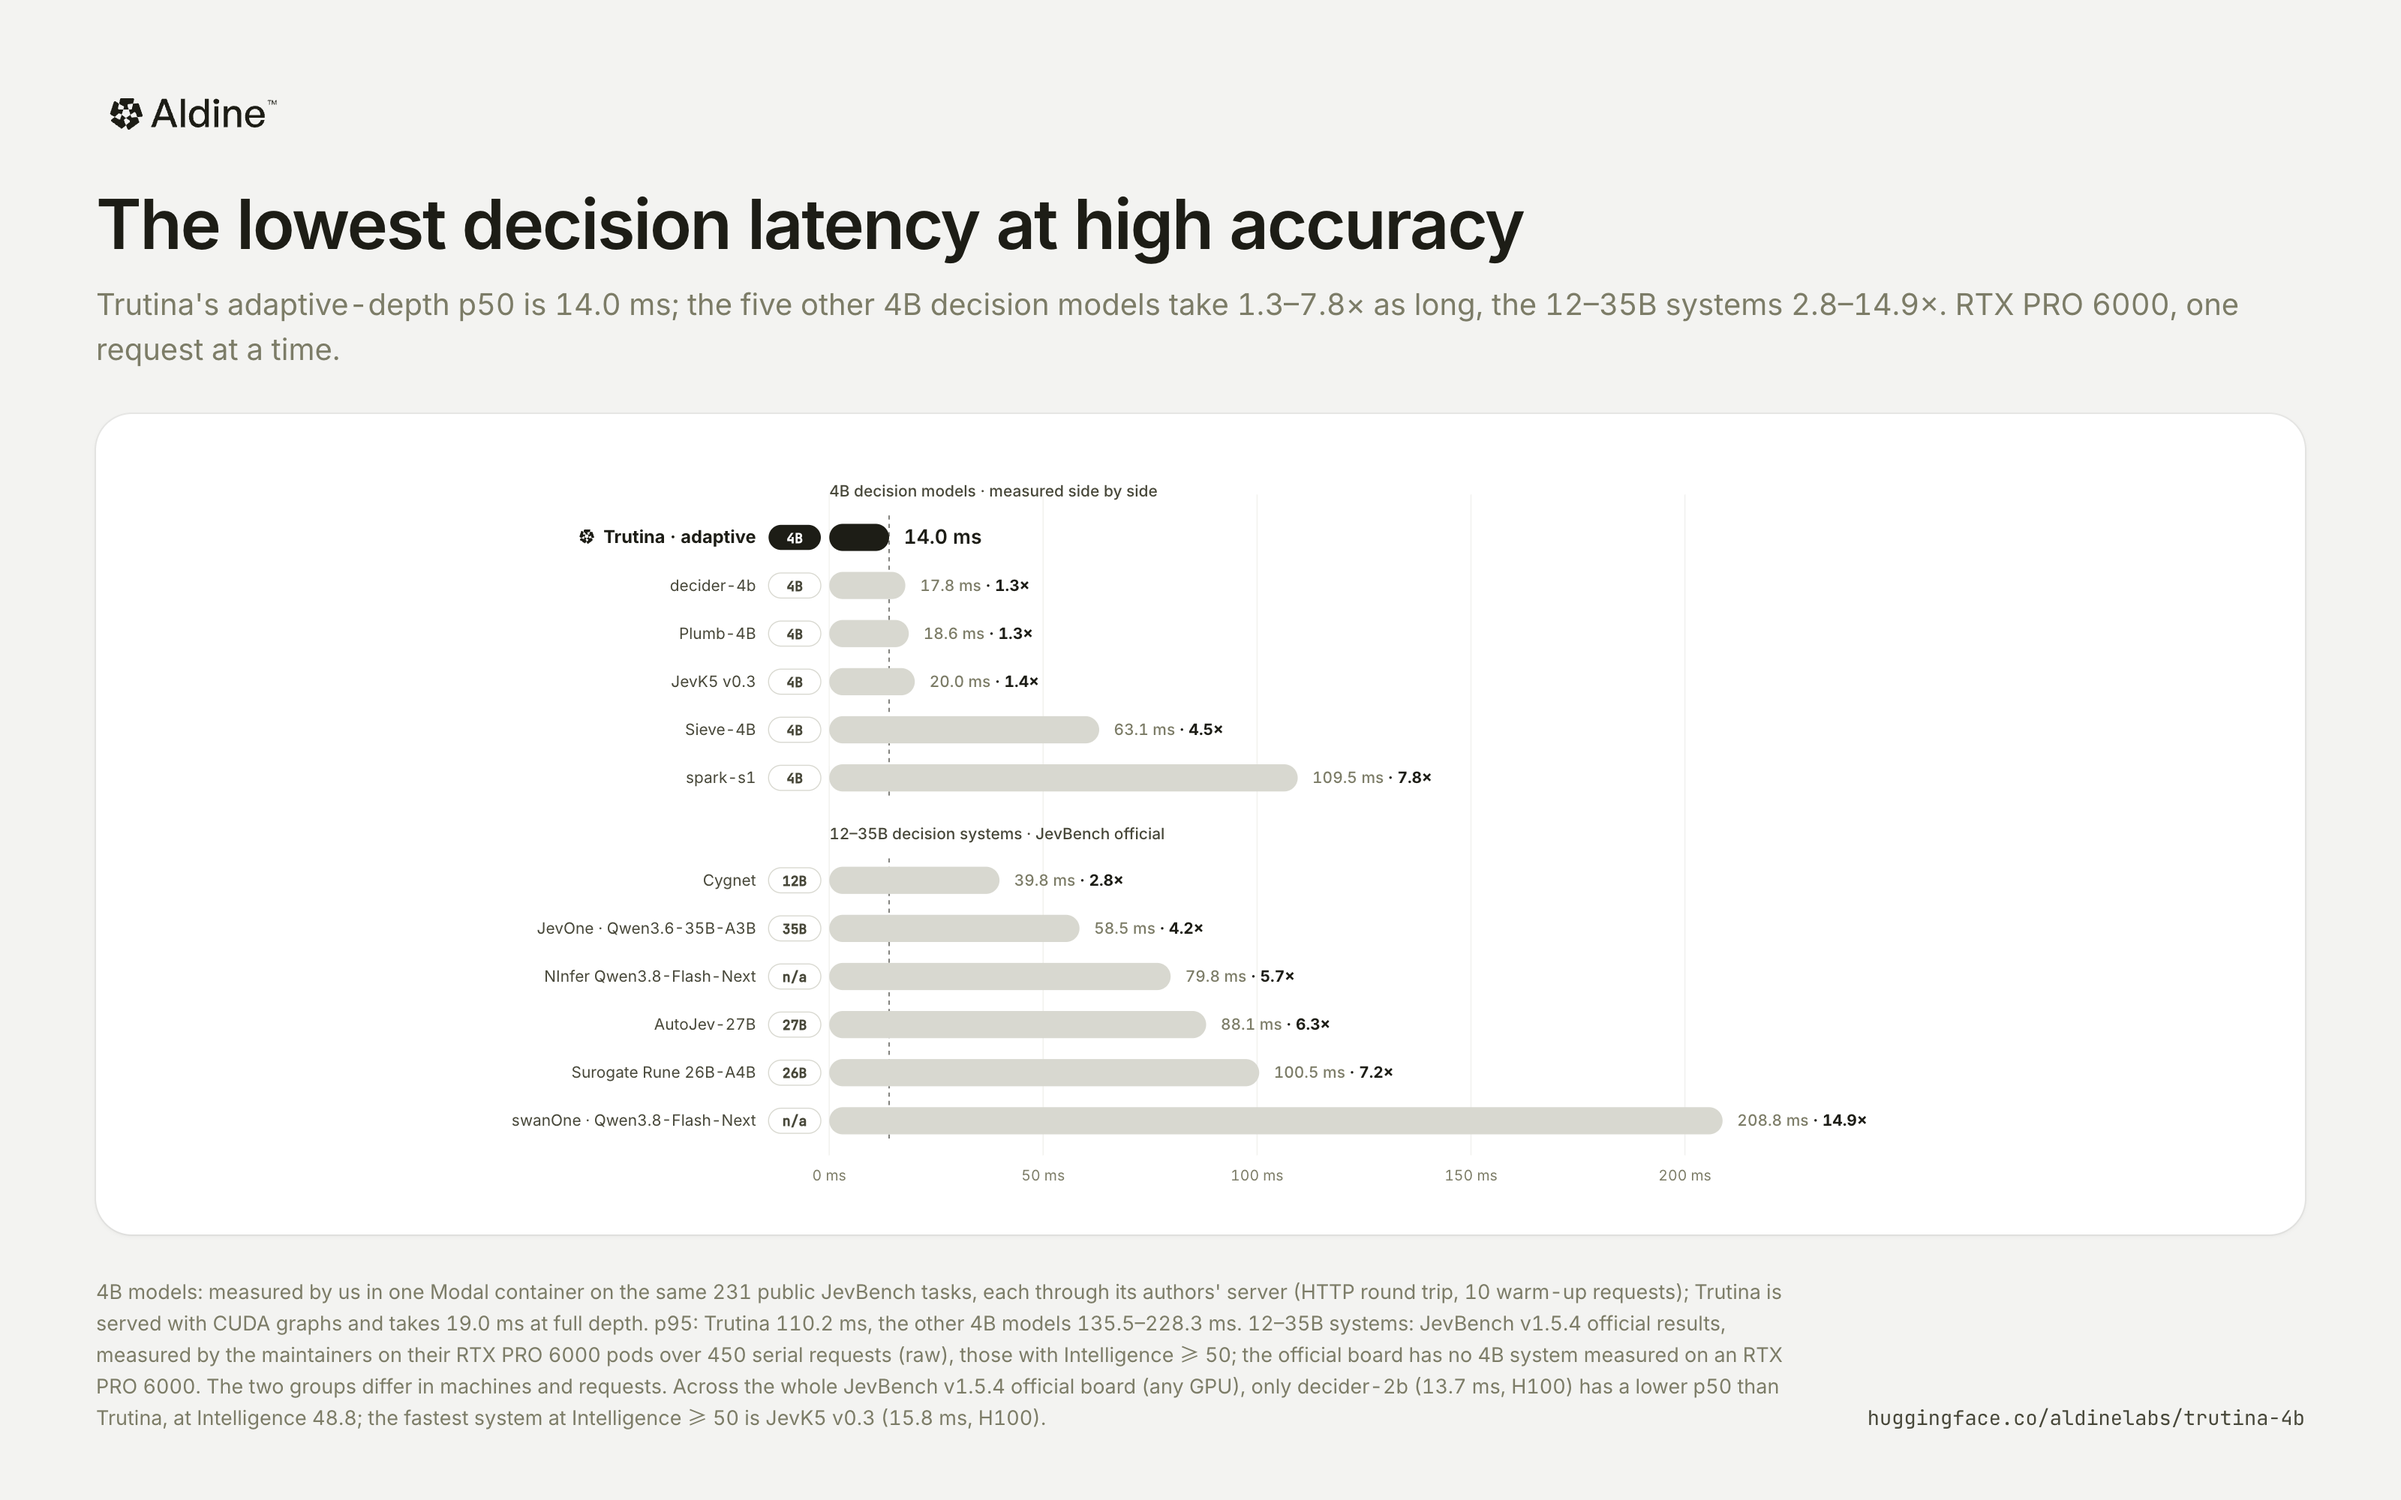
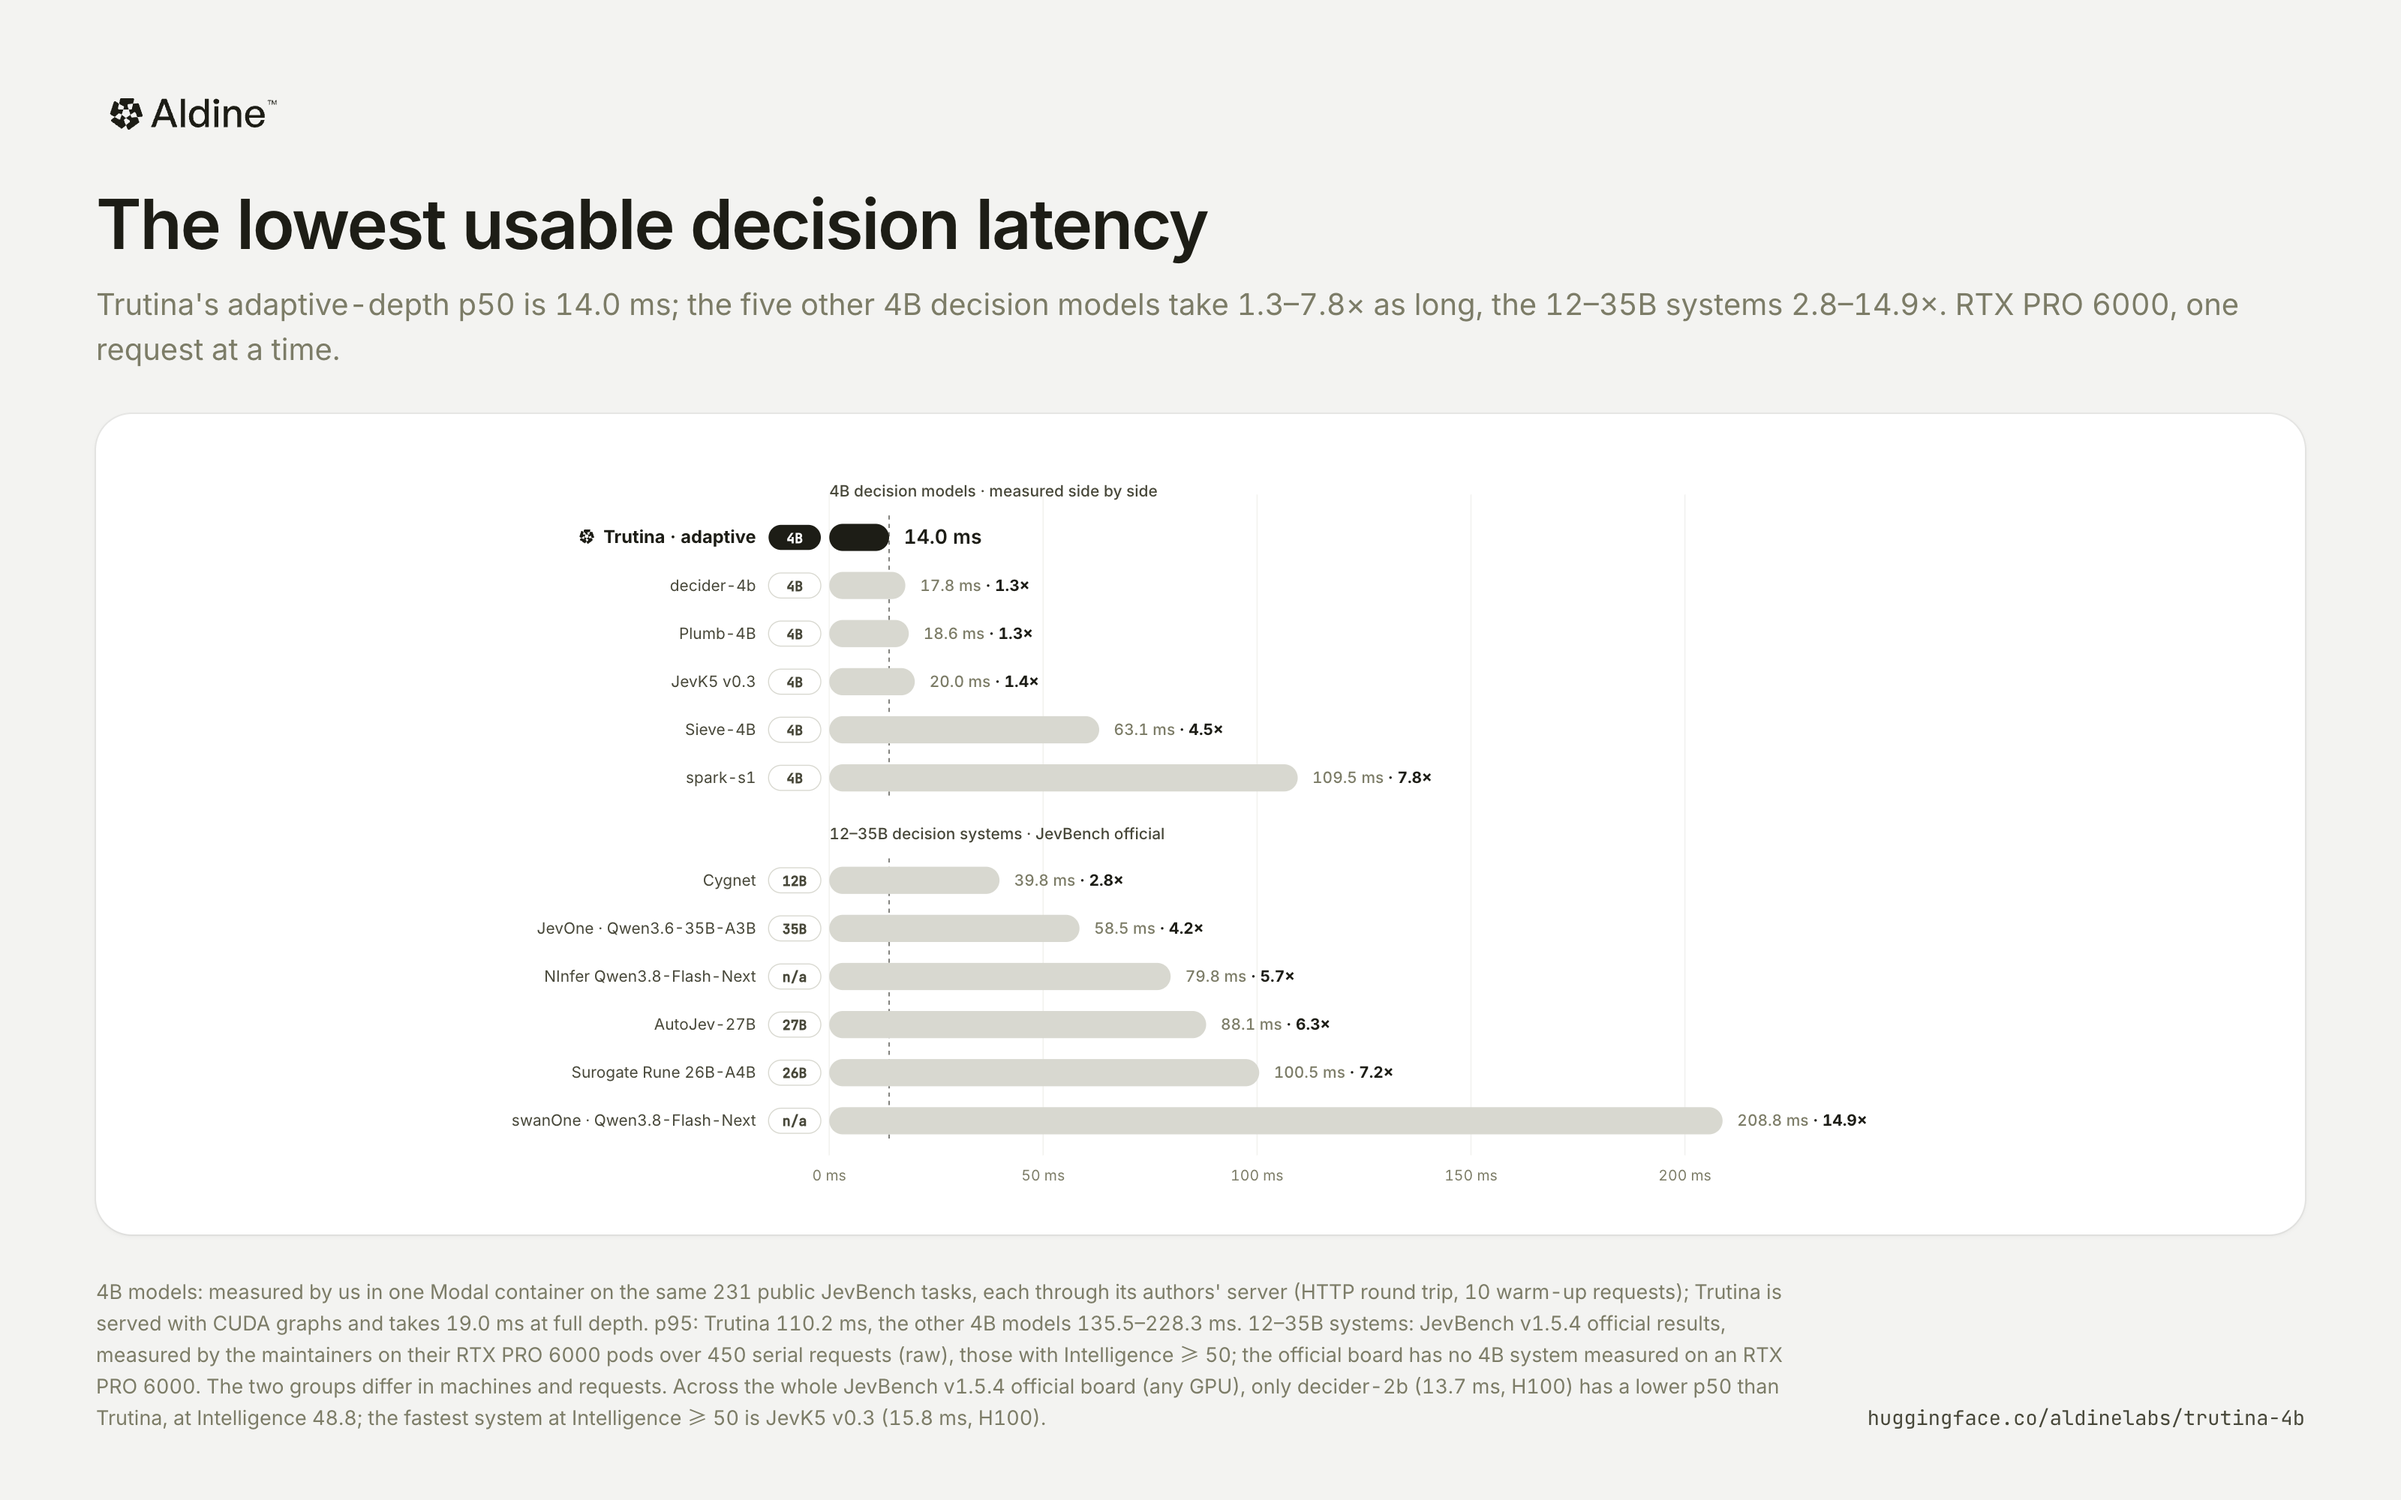
docs: latency chart title, the lowest usable decision latency

Changed region(s): [[0.1875, 0.124, 0.625, 0.186]]

diff --git a/assets/charts/charts.html b/assets/charts/charts.html
@@ -320,12 +320,12 @@ function bigger() {
   const rng = a => `${Math.min(...a).toFixed(1)}–${Math.max(...a).toFixed(1)}`;
   const p95s = small.filter(r => !r.us).map(r => r.p95);
   return frame(zh ? {
-    title: "高准确率下的业界最低决策延迟",
+    title: "业界最低可用决策延迟",
     sub: `Trutina 自适应深度的 p50 为 ${fmt1(ad.p50)} ms；另外 5 个 4B 决策模型为其 ${rng(s4)} 倍，12–35B 系统为 ${rng(sl)} 倍。RTX PRO 6000，串行单请求。`,
     body: `<div class="card">${svgTag(W, H)}${g}</svg></div>`,
     src: `4B 模型由我们在同一 Modal 容器、同一 231 道 JevBench 公开题上测得，各用其作者提供的服务端（HTTP 往返，预热 10 条）；Trutina 经 CUDA graph 服务，完整深度为 ${fmt1(full.p50)} ms。p95：Trutina ${fmt1(ad.p95)} ms，另外 5 个 4B 为 ${fmt1(Math.min(...p95s))}–${fmt1(Math.max(...p95s))} ms。12–35B 系统为 JevBench v1.5.4 官方结果，由维护方在其 RTX PRO 6000 测试机上以 450 个请求串行测得（原始值），取 Intelligence ≥ 50 者；官方榜单上没有在 RTX PRO 6000 上测得的 4B 系统。两组的测试机与请求集不同。在整个 JevBench v1.5.4 官方榜单（各型号 GPU）上，p50 低于 Trutina 的只有 decider-2b（13.7 ms，H100），其 Intelligence 为 48.8；Intelligence ≥ 50 的系统中最快的是 JevK5 v0.3（15.8 ms，H100）。`,
   } : {
-    title: "The lowest decision latency at high accuracy",
+    title: "The lowest usable decision latency",
     sub: `Trutina's adaptive-depth p50 is ${fmt1(ad.p50)} ms; the five other 4B decision models take ${rng(s4)}× as long, the 12–35B systems ${rng(sl)}×. RTX PRO 6000, one request at a time.`,
     body: `<div class="card">${svgTag(W, H)}${g}</svg></div>`,
     src: `4B models: measured by us in one Modal container on the same 231 public JevBench tasks, each through its authors' server (HTTP round trip, 10 warm-up requests); Trutina is served with CUDA graphs and takes ${fmt1(full.p50)} ms at full depth. p95: Trutina ${fmt1(ad.p95)} ms, the other 4B models ${fmt1(Math.min(...p95s))}–${fmt1(Math.max(...p95s))} ms. 12–35B systems: JevBench v1.5.4 official results, measured by the maintainers on their RTX PRO 6000 pods over 450 serial requests (raw), those with Intelligence ≥ 50; the official board has no 4B system measured on an RTX PRO 6000. The two groups differ in machines and requests. Across the whole JevBench v1.5.4 official board (any GPU), only decider-2b (13.7 ms, H100) has a lower p50 than Trutina, at Intelligence 48.8; the fastest system at Intelligence ≥ 50 is JevK5 v0.3 (15.8 ms, H100).`,
